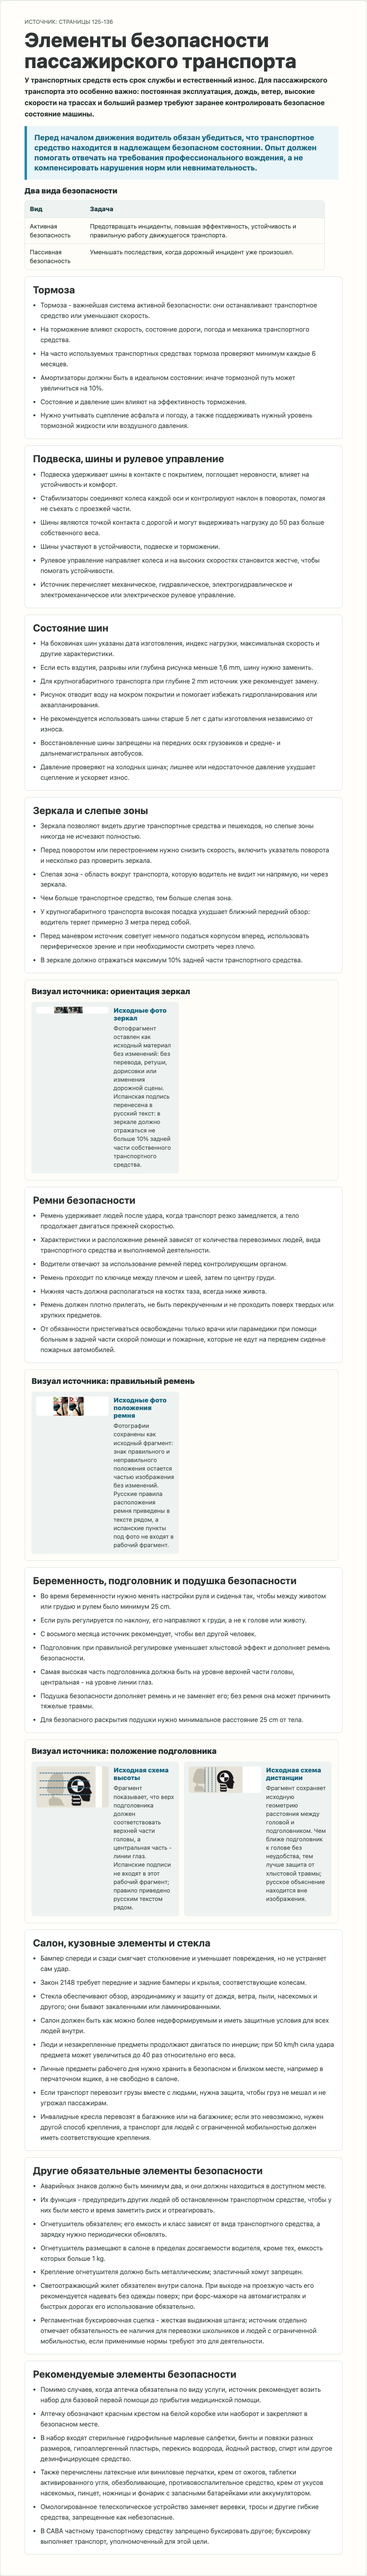
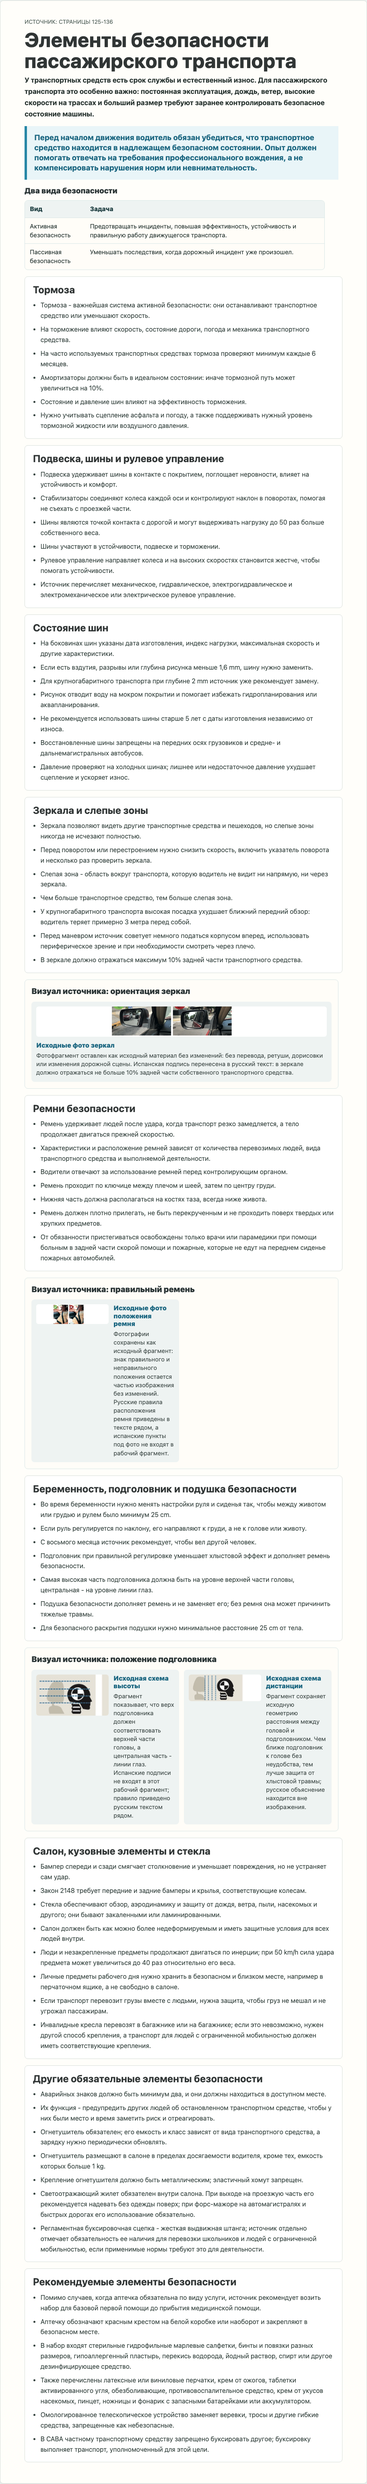
Make Appendix II mirror visual readable

Changed region(s): [[0.0614, 0.0, 0.8904, 0.9966]]

diff --git a/src/styles.css b/src/styles.css
@@ -2750,6 +2750,11 @@ small,
   grid-template-columns: minmax(0, 1fr);
 }
 
+.manual-source-image-card[data-card-id="app2-mirror-orientation-source-card"] {
+  grid-column: 1 / -1;
+  grid-template-columns: minmax(0, 1fr);
+}
+
 .manual-source-image-card figure {
   display: grid;
   place-items: center;
@@ -2766,6 +2771,13 @@ small,
   justify-self: center;
 }
 
+.manual-source-image-card[data-card-id="app2-mirror-orientation-source-card"] figure {
+  width: 100%;
+  max-width: 760px;
+  justify-self: center;
+  overflow-x: auto;
+}
+
 .manual-source-image-card img {
   display: block;
   width: 100%;
@@ -2774,6 +2786,11 @@ small,
 }
 
 .manual-source-image-card[data-has-russian-overlay="true"] img {
+  max-width: none;
+}
+
+.manual-source-image-card[data-card-id="app2-mirror-orientation-source-card"] img {
+  width: 760px;
   max-width: none;
 }
 

diff --git a/specs/031-manual-document-completion/tasks.md b/specs/031-manual-document-completion/tasks.md
@@ -98,7 +98,7 @@ For each chapter-equivalent content PR:
 | Chapter 4 content | pages `89-97` | branch `codex/031-chapter-4`; PR #189, https://github.com/cucumberfalse/cabadrive/pull/189 | `19fecc3a1a2ca4ab9273cdbe6833e7d6d5d7ef27` | implementation content head `2338c3a5e777cbd469f9ca23bcbbbf9dbbd4c62b`; first review-fix head before visual-fidelity repair `2f4aad4250fdd63e66495d515274293d2721a737`; prior validated effective content head `a8ecdac9daed66274ba51fb04ecbe47279aae2f6`; page-93 boundary review-fix and prior effective content head `17dd8db5872dc90586191b6e9c972cfbe681da7b`; refusal-procedure localization review-fix head `201693cc9e4a4a3e1313650c7f6ca57d613af1b8`; strict infographic visual-rule repair effective content head `9b5b74b9b19b756225ffd50b2ba1df4732c56ab3`; final-validation evidence transport head `528d8eab9e57b660096e95f6dcabc43a8750835f`; motorcycle-passenger alcohol-limit scope repair effective content head `3de005c1b46ea8b28b96b6ec46d4d51d61719dae`; final-validation evidence transport head before overlay-label repair `1c826ed8b518764749c4d146f7147fdf260f2146`; overlay-label visual-rule repair for Codex P2 `3352010484`; overlay-label mobile clipping repair for Review Agent comment `3352219633`; alcohol-effects localization repair for Codex P2 `3352233947`; sleep/fatigue remedy localization repair for Review Agent comment `3352327144`; broader learner-facing localization audit for Review Agent comment `3352354749`; current effective content head `4e819cfd80ebf09b4d3db560a6bc3b57766ef39a` | Chapter 4 content and review fixes for `PRRT_kwDOSX65IM6G1K3A`, `PRRT_kwDOSX65IM6G1LSI`, visual-fidelity thread `PRRT_kwDOSX65IM6G1aYu`, Codex review comment `3350790136`, Codex P2 comments `3351081820`, `3351219753`, `3351329538`, `3351663509`, `3352010484`, `3352233947`, and Review Agent comments `3352219633`, `3352327144`, and `3352354749` are implemented and locally verified in this PR follow-up; prior final validation/evidence for pre-repair heads including `3de005c1b46ea8b28b96b6ec46d4d51d61719dae`, `d3d712ce488560c3d3747cbc54d1489a84774cbe`, `2af2a57520f68f8090376699615a4cab41885d2d`, `fa568d5b1aec3e2e546e44d1ba43c39418ff731b`, and `adfcbbbdac50658c1a80ef8e22dd88554c579a5e` is superseded by fresh Architect validation for effective content head `4e819cfd80ebf09b4d3db560a6bc3b57766ef39a`; no Chapter 5+ content bundled | yes |
 | Chapter 5 content | pages `98-103` | branch `codex/031-chapter-5`; PR #190, https://github.com/cucumberfalse/cabadrive/pull/190 | `f3b756315141f859f097e6af47d088c16ccac910` | implementation content head `fa6983a6be8069b4bb4aaa51140a218c6ada3096`; Review Agent P2 `3352682015` localization repair head reported by IA handoff; automated Codex P2 visual/boundary repairs `3352716346` and `3352716350` head reported by IA handoff | ready PR open; Chapter 5 implementation, Review Agent P2 localization repair, and automated Codex visual/boundary repairs complete locally; fresh final validation is required on the new repair head; no Appendix/front-matter content bundled | yes |
 | Appendix I content | pages `104-122` | branch `codex/031-appendix-i`; PR #191, https://github.com/cucumberfalse/cabadrive/pull/191 | `b63639a20e413f339266e2e91ce63c377377230a` | implementation content head `e108ba86293b3ff0d3d5443aaf7f9b99f8d8d550`; first process-memory head `794a80c1bad67c7f94488e396ae357d36fc89963`; Review Agent P2 localization repair head `e90e3e516137bab021d5acaf64a07e2be7f8dd8a`; AI review SRI all-threshold/screenshot/title repair head `197971dc3ce4eac35357d5077c37e6bd5f59ffde`; tire-blowout page `109` repair head `77eefbf268236ba78a0d9f55e8de8f6001a7301c`; evidence-only head `43964bd8ecda9bc4d0cc842bd50c777d1a408270`; page `119` luggage/source-ownership repair head `2cc142de062425f4ebf2be56f95d73faa95ff43d`; page `119` top-level shared-ownership repair head `01c5db6158c992ed9098b50a3d323efabbe9bf9f`; mirror photo-only crop repair head `d27afdb68af4826a6645045ef27324ca24aad53f`; SRI overlay repair content/process head `866646b8cfc54116975f21d8212e09f8d1c9b7c4`; current effective content/process head `dda0ad28119335c49499b9594e2f79a994fea823` includes parser-readable known-issue disposition and process-head decision | ready PR open; Appendix I implementation and review/AI fixes complete locally through page `119` shared source ownership, mirror photo-only crop, and corrected SRI `+0` overlay source range `1-15 месяцев, 0-13 kg`; prior Architect/Analyst validations for `77eefbf268236ba78a0d9f55e8de8f6001a7301c`, `7b8ffb3f58e8c91b660ea2d9f952c509ffff98f5`, and `866646b8cfc54116975f21d8212e09f8d1c9b7c4` are stale/superseded for finalization; fresh Architect validation passed at `2026-06-04T08:56:25Z` for effective content/process head `dda0ad28119335c49499b9594e2f79a994fea823`; no product/runtime/test/source-asset changes landed after Appendix I content/process fix head; current/final PR head verification remains Orchestrator/finalizer-owned via read-only guard and `pnpm run pr:finalize -- --expected-head <actual-current-pr-head>` before merge; no Appendix II/III/IV or front-matter content bundled | yes |
-| Appendix II content | pages `123-151` | branch `codex/031-appendix-ii`; PR #192, https://github.com/cucumberfalse/cabadrive/pull/192 | `38ab6bac15a6f90ee7a9520c59cf932c38f5597f` | implementation content head `30350124810133d9e7a77a8b2cb03356c36134b3`; AI Review P2 `3355086974` visual-preservation repair head reported by Implementation Agent handoff | ready PR open after Appendix II safety-visual repair; Appendix II passenger-transport runtime content, source-fidelity registry/evidence, x5 crops, screenshots, tests, preflight, and Docker smoke passed for pages `123-151`; prior validation/process state for pre-repair head `4a638fc07383758a773a2290db5dfd8adb016d4a` is stale because the review repair is product/runtime/evidence content; no Appendix III/IV/front-matter or unrelated content bundled | yes |
+| Appendix II content | pages `123-151` | branch `codex/031-appendix-ii`; PR #192, https://github.com/cucumberfalse/cabadrive/pull/192 | `38ab6bac15a6f90ee7a9520c59cf932c38f5597f` | implementation content head `30350124810133d9e7a77a8b2cb03356c36134b3`; AI Review P2 `3355086974` visual-preservation repair head `9ab22a12a6491228e4362cfb37dcfd871fb42d74`; Review Agent P2 `3355330713` mirror-readability layout repair head reported by Implementation Agent handoff | ready PR open after Appendix II safety-visual repair and mirror-readability layout follow-up; Appendix II passenger-transport runtime content, source-fidelity registry/evidence, x5 crops, screenshots, tests, preflight, and Docker smoke passed for pages `123-151`; prior validation/process state for pre-repair head `4a638fc07383758a773a2290db5dfd8adb016d4a` and visual-preservation head `9ab22a12a6491228e4362cfb37dcfd871fb42d74` is stale because the follow-ups are product/runtime/evidence content; no Appendix III/IV/front-matter or unrelated content bundled | yes |
 | Appendix III content | pages `152-183` | pending | pending | pending | pending | yes |
 | Appendix IV content | pages `184-200` | pending | pending | pending | pending | yes |
 | Front-matter support | pages `1-13` | pending | pending | pending | pending | yes |
@@ -115,7 +115,7 @@ For each chapter-equivalent content PR:
 | Chapter 4 | `89-97` | One chapter PR covering `ch4-alcohol-drugs`, `ch4-sleep-fatigue`, `ch4-stress`, and `ch4-distractions`; page `89` divider skipped; page `93` shared by alcohol/drugs and sleep/fatigue; page `94` shared by sleep/fatigue and stress; page `95` shared by stress recommendations and distractions with direct distractions navigation starting on page `95` | ready PR #189 at https://github.com/cucumberfalse/cabadrive/pull/189 from branch `codex/031-chapter-4`; implementation content head `2338c3a5e777cbd469f9ca23bcbbbf9dbbd4c62b`; page-93 boundary, refusal-procedure localization, stress-localization, strict infographic visual-rule repairs, Codex P2 `3351663509` motorcycle-passenger alcohol-limit scope repair, Codex P2 `3352010484` overlay-label visual-rule repair, Review Agent comment `3352219633` overlay-label mobile clipping repair, Codex P2 `3352233947` alcohol-effects localization repair, Review Agent comment `3352327144` sleep/fatigue remedy localization repair, and Review Agent comment `3352354749` broader learner-facing localization audit repair are included at effective content head `4e819cfd80ebf09b4d3db560a6bc3b57766ef39a`; ready for Analyst final validation after Architect validation at this head and later evidence transport/current-head guard |
 | Chapter 5 | `98-103` | One chapter PR covering `ch5-attitude-types`, `ch5-equal-society`, `ch5-gender-violence-prevention`, and `ch5-anticipatory-efficient-driving`; page `98` divider skipped; page `99` shared by attitude types and equality; page `100` shared by equality and gender-violence support; page `101` shared by gender-violence support and preventive/efficient driving | ready PR #190 open at https://github.com/cucumberfalse/cabadrive/pull/190 from branch `codex/031-chapter-5`; implementation content head `fa6983a6be8069b4bb4aaa51140a218c6ada3096`; current PR head reported by IA handoff |
 | Appendix I | `104-122` | One chapter-equivalent PR covering `app1-safety-elements`, `app1-other-required-safety-elements`, and `app1-recommended-safety-elements`; page `104` divider skipped; page `119` shared by safety-elements luggage/max-load masks and other-required heading/content | ready PR #191 open at https://github.com/cucumberfalse/cabadrive/pull/191 from branch `codex/031-appendix-i`; effective content/process head `dda0ad28119335c49499b9594e2f79a994fea823` includes implementation, localization repairs, SRI all-threshold/title/screenshot repair, tire-blowout page `109` repair, page `119` shared ownership repair, mirror photo-only crop repair, AI Review P2 `3354284239` SRI `+0` overlay correction to source range `1-15 месяцев, 0-13 kg`, and parser-readable Appendix I known-issue disposition/process-head decision; fresh Architect validation passed at `2026-06-04T08:56:25Z`; prior validation at `866646b8cfc54116975f21d8212e09f8d1c9b7c4` is stale/superseded for finalizer purposes; current/final PR head verification remains Orchestrator/finalizer-owned via read-only guard and expected-head finalizer before merge |
-| Appendix II | `123-151` | One chapter-equivalent PR covering `app2-social-responsibility`, `app2-safety-elements`, `app2-driving-factors`, `app2-safe-driving`, and `app2-highways-hospitals`; page `123` divider skipped; no new shared page ownership needed | ready PR #192 open at https://github.com/cucumberfalse/cabadrive/pull/192 from branch `codex/031-appendix-ii`; implementation content head `30350124810133d9e7a77a8b2cb03356c36134b3`; AI Review P2 `3355086974` visual-preservation repair head reported by IA handoff; pre-repair head `4a638fc07383758a773a2290db5dfd8adb016d4a` is stale for final validation because the repair changes runtime/evidence content |
+| Appendix II | `123-151` | One chapter-equivalent PR covering `app2-social-responsibility`, `app2-safety-elements`, `app2-driving-factors`, `app2-safe-driving`, and `app2-highways-hospitals`; page `123` divider skipped; no new shared page ownership needed | ready PR #192 open at https://github.com/cucumberfalse/cabadrive/pull/192 from branch `codex/031-appendix-ii`; implementation content head `30350124810133d9e7a77a8b2cb03356c36134b3`; AI Review P2 `3355086974` visual-preservation repair head `9ab22a12a6491228e4362cfb37dcfd871fb42d74`; Review Agent P2 `3355330713` mirror-readability layout repair head reported by IA handoff; pre-repair heads are stale for final validation because the repairs change runtime/evidence content |
 | Appendix III | `152-183` | One chapter-equivalent PR | pending |
 | Appendix IV | `184-200` | One chapter-equivalent PR; source-as-is signs/markings | pending |
 
@@ -441,7 +441,7 @@ For each chapter-equivalent content PR:
 - Base and scope evidence: `git rev-parse HEAD` before editing returned `38ab6bac15a6f90ee7a9520c59cf932c38f5597f`, matching the Orchestrator-assigned verified `origin/main` base after merged PR #191 Appendix I. Initial active-worktree status showed branch `codex/031-appendix-ii` tracking `origin/main` with no local changes. Work stayed in `/Users/chap/devel/cabadrive-worktrees/031-appendix-ii` on branch `codex/031-appendix-ii`.
 - Source extraction evidence: `swift scripts/render-manual-pdf-pages.swift content/official-documents/originals/gcba-manual-vehiculo-4-ruedas-2023.pdf /tmp/cabadrive-app2-x5-pages --scale 5 --quality 0.95` rendered source pages `123-151` at `2976x4209`. Committed Appendix II source crops under `content/validation/manual-guide/app2-*/` were copied from those x5 renders with no resizing, translation, cleanup, retouching, masking, inpainting, reconstruction, or broad plates. Page `123` divider evidence is retained under `app2-social-responsibility`.
[3 lines of base64/hex data omitted]
 - Focused verification passed: `node scripts/manual-guide-source-fidelity.mjs` passed with `status: pass`, `mode: complete-chapters-1-through-5-and-appendices-1-through-2`, `sectionsChecked: 35`, `pendingSections: 0`, `implementedSections: 35`, `skippedSourcePages: [21,43,56,57,89,98,104,123]`, `skippedDividerPages: [21,43,57,89,98,104,123]`, `omittedBookOnlyPages: [56]`, `sharedSourcePages: [55,93,94,95,99,100,101,119]`, `screenshotEvidence: recorded_for_complete_chapters_1_through_5_and_appendices_1_through_2_sections`, `sourceCropEvidence: x5_source_crops_recorded_for_complete_chapters_1_through_5_and_appendices_1_through_2_sections`, and `strictVisualRulePolicy: 031-strict-source-fidelity`.
 - Focused verification passed: `node --test tests/content-manual-guide-chapters.test.mjs` passed with `82` tests and `0` failures. New assertions cover Appendix II hierarchy, page `123` divider disposition, page ranges through `151`, exact five Appendix II section ids, passenger-transport legal/safety/health/route detail retention, strict visual metadata, source boundaries, screenshot/source-crop evidence, and no Appendix III/IV bundling.
 - Focused verification passed: `pnpm exec tsc --noEmit`; `git diff --check`; `node scripts/check-feature-memory.mjs --worktree`; `node scripts/manual-guide-source-fidelity.mjs`; `node --test tests/content-manual-guide-chapters.test.mjs` with `82` tests and `0` failures.
@@ -452,7 +452,8 @@ For each chapter-equivalent content PR:
 - Review-fix protected visual confirmation, AI Review P2 `3355086974`: no Appendix II photo, traffic sign, road-marking visual, source page render, validation source crop, page `150` map crop, protected source-as-is runtime photo crop, source-transferred diagram crop, or source visual pixels were translated, relabeled, recolored, retouched, masked, inpainted, reconstructed, or redrawn. Page `150` hospital map decision remains unchanged and evidence-only.
 - Review-fix verification, AI Review P2 `3355086974`: addressed PR #192 thread `PRRT_kwDOSX65IM6HB_fF` / comment `3355086974` by adding runtime visual preservation for Appendix II safety diagrams/visual instructions in `app2-safety-elements` pages `125-136`. The review repair updates runtime section content, source-fidelity registry evidence, focused tests, and refreshed `app2-safety-elements` screenshots only; it does not change Appendix III/IV/front matter or unrelated source units. Prior validation/process state for head `4a638fc07383758a773a2290db5dfd8adb016d4a` is stale because this is a product/runtime/evidence content change, and fresh review/final validation is required on the pushed repair head.
 - `node scripts/manual-guide-source-fidelity.mjs` after AI Review P2 `3355086974` repair: passed with `status: pass`, `sectionsChecked: 35`, `pendingSections: 0`, `implementedSections: 35`, `screenshotEvidence: recorded_for_complete_chapters_1_through_5_and_appendices_1_through_2_sections`, and `strictVisualRulePolicy: 031-strict-source-fidelity`.
-- `node --test tests/content-manual-guide-chapters.test.mjs` after AI Review P2 `3355086974` repair: passed with `83` tests passed, `0` failed. Added Appendix II regression coverage requiring `source-image-cards`, `manual-source-artwork`, mirror/seat-belt source-as-is runtime PNGs with byte-identical source-crop hashes, and the page `132` headrest transferred infographic with source-crop linkage plus selectable Russian labels.
+- `node --test tests/content-manual-guide-chapters.test.mjs` after AI Review P2 `3355086974` repair: passed with `83` tests passed, `0` failed. Added Appendix II regression coverage requiring `source-image-cards`, `manual-source-artwork`, mirror/seat-belt source-as-is runtime PNGs with byte-identical source-crop hashes, and page `132` headrest source-transferred diagram crops with source-crop linkage and no visible Spanish.
[1 lines of base64/hex data omitted]
 - Final handoff evidence: `git diff --cached --check` is run before each commit, and the final pushed PR head is reported by Implementation Agent handoff.
 
 ## Final Validation Evidence
